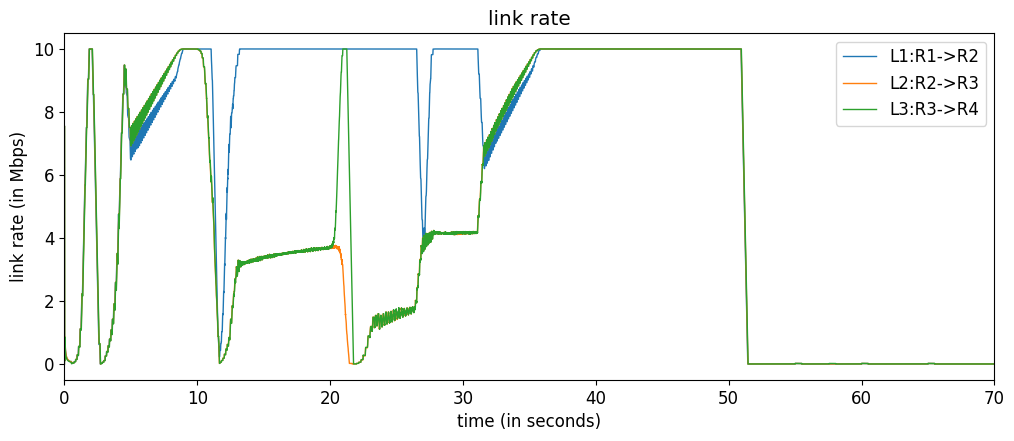
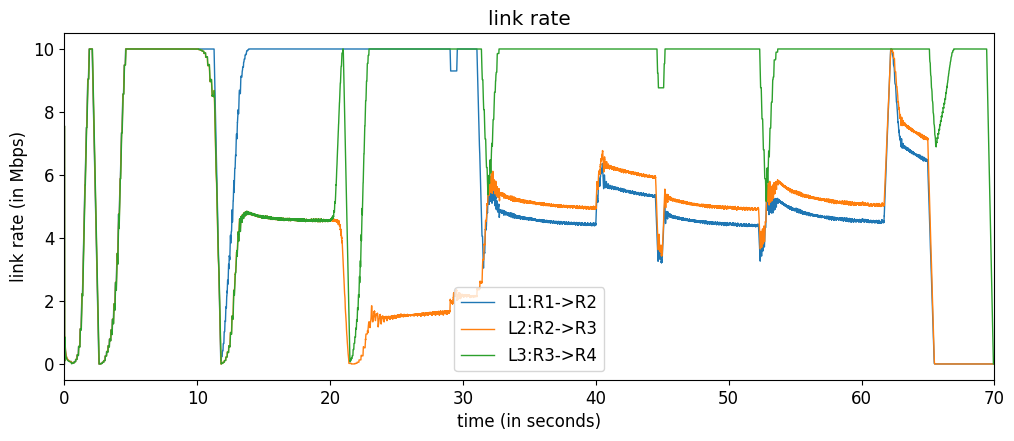
some final changes and graphs

diff --git a/flow_reno.py b/flow_reno.py
@@ -120,8 +120,7 @@ class Flow:
     # Run the flow, this is the function called every dt for the flow
     def run(self):
         # If we shouldn't do anything, leave
-        if self.start >= globals.systime or self.done == True or \
-            self.state == "fast_recovery":
+        if self.start >= globals.systime or self.done == True:
             return
 
         # Send any available packets otherwise
@@ -190,7 +189,7 @@ class Flow:
         # Time to enter fast recovery
         if self.state != 'fast_recovery' and self.duplicate_count == 3 and self.next_cut_time <= globals.systime:
             print("Entering fast recovery at time: ", globals.systime, " window size: ", self.window_size)
-            self.ssthresh = self.window_size / 2
+            self.ssthresh = max(self.window_size / 2, 2)
 
             # Retransmit the dropped packet
             self.source.send_packet(self.packets[p.data])
@@ -202,7 +201,7 @@ class Flow:
 
         # Window inflation
         elif self.state == 'fast_recovery':
-            self.window_start += 1
+            #self.window_size += 1
             # Send any packets we can send
             self.send_packets()
 
@@ -213,7 +212,7 @@ class Flow:
             globals.systime >= self.next_cut_time:
             print("timed out at time: ", globals.systime, "window size: ", self.window_size)
             # Enter slow_start
-            self.ssthresh = self.window_size / 2
+            self.ssthresh = max(self.window_size / 2, 2)
             self.window_size = 1
 
             # Update state and track timeout
@@ -238,7 +237,7 @@ class Flow:
             self.rto = 2 * self.rto
             self.next_cut_time += self.rto
 
-        else:
+        elif self.state != "fast_recovery":
             # Send everything in the window that has not been sent
             self.send_window()
 

diff --git a/simulator.py b/simulator.py
@@ -91,6 +91,7 @@ class Simulator:
             legend = []
             plot.figure(figsize = (12,4.5))
             plot.xlim(xmax = self.duration*globals.dt)
+            #plot.ylim(ymin = 0)
             print("Plotting ", t)
             for s in globals.statistics.keys():
                 x = []
